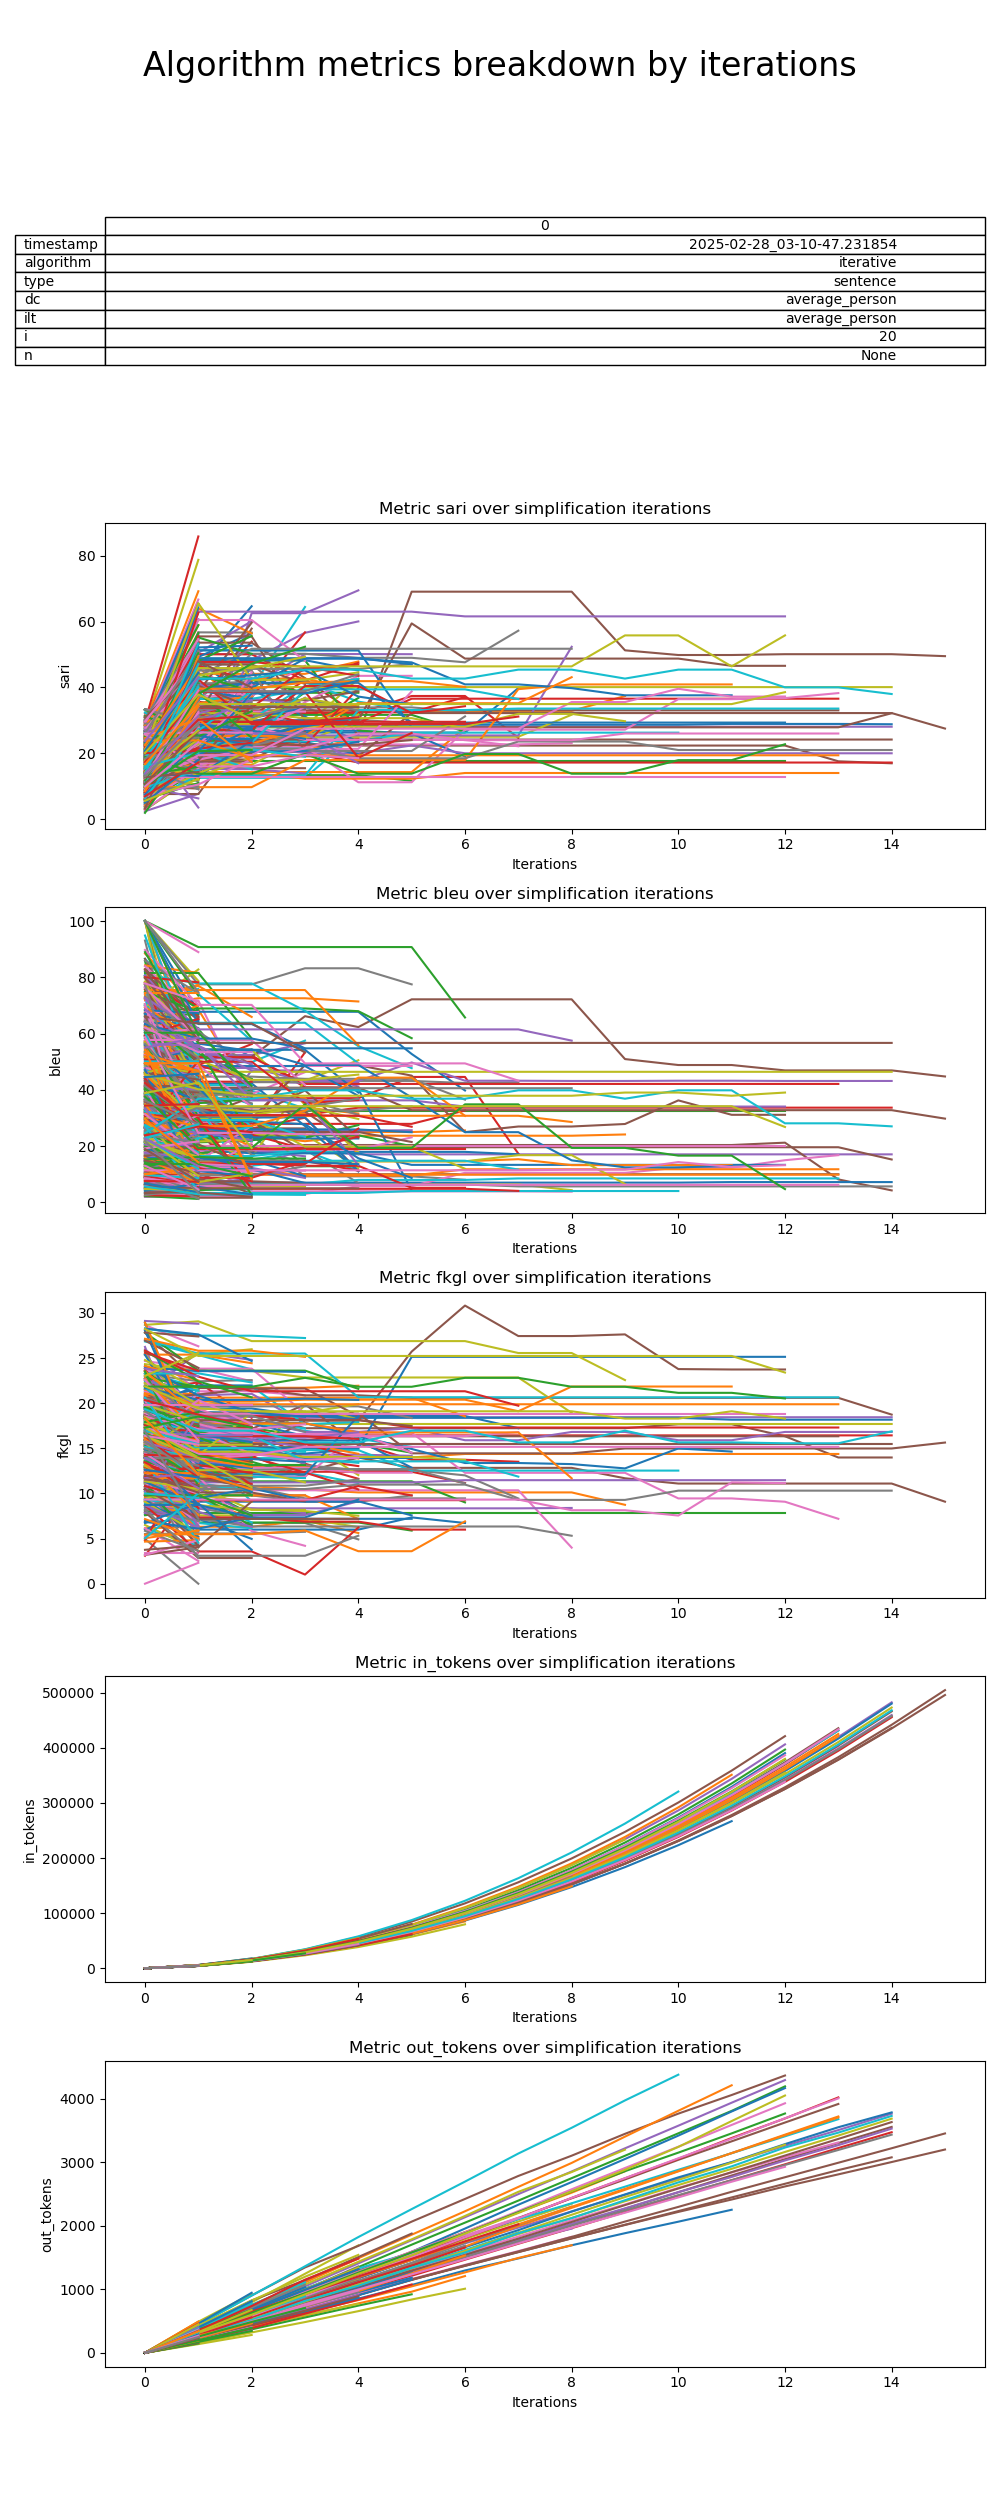
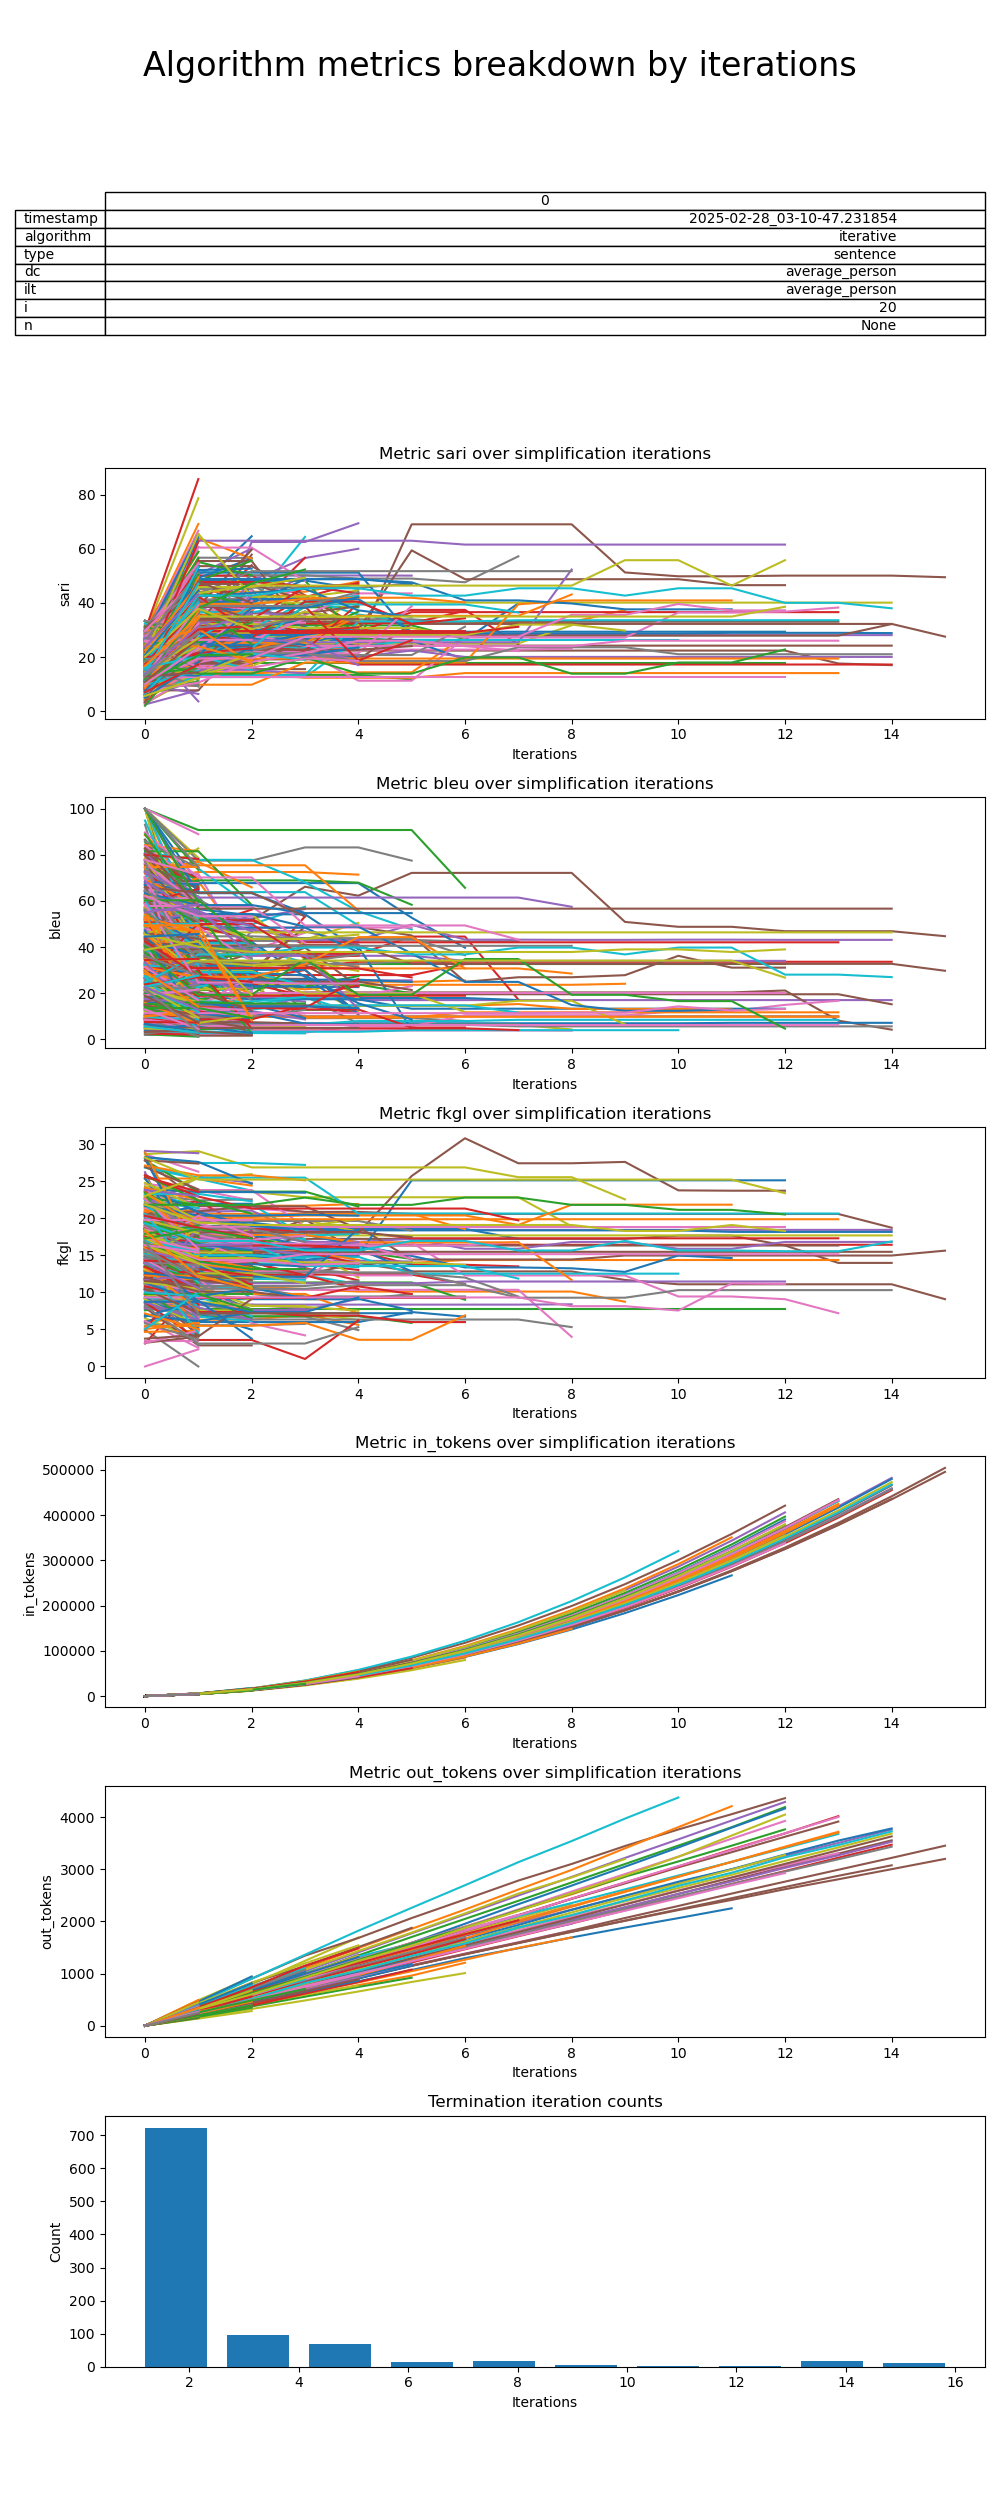
Modified iterative algorithm to use FKGL for complexity determination

diff --git a/Iterative Simplification.py b/Iterative Simplification.py
@@ -14,7 +14,8 @@ dataset = dataset_utils.read_dataset()
 # def simplify_passage_iteratively(chat_bot, system_prompt, algorithm_parameters, passage, max_iter=20):
 def simplify_passage_iteratively(chat_bot, algorithm_parameters, max_iter=20):
     for _ in range(max_iter):
-        chat_bot.send_prompt("Identify which parts of the passage are the most complex, then the complexity level of the passage. Limit your answer to a maximum of 5 sentences")
+        # chat_bot.send_prompt("Identify which parts of the passage are the most complex, then the complexity level of the passage. Limit your answer to a maximum of 5 sentences")
+        chat_bot.send_prompt(f"FKGL score of the the latest passage version is {chat_bot.get_latest_fkgl()}")
         chat_bot.send_prompt(f'Is determined complexity higher than DC ({algorithm_parameters["DC"]})? Answer "Yes" or "No"')
         if "NO" in chat_bot.get_last_response().upper():
             break

diff --git a/chat_bots.py b/chat_bots.py
@@ -88,6 +88,9 @@ class VllmChatBot:
     def get_iteration_results(self):
         return self.iteration_results.copy()
 
+    def get_latest_fkgl(self):
+        return self.iteration_results[-1]["metrics"]["fkgl"]
+
     ### Saving / displaying results
     def print_chat(self):
         for message in self.chat_log:
